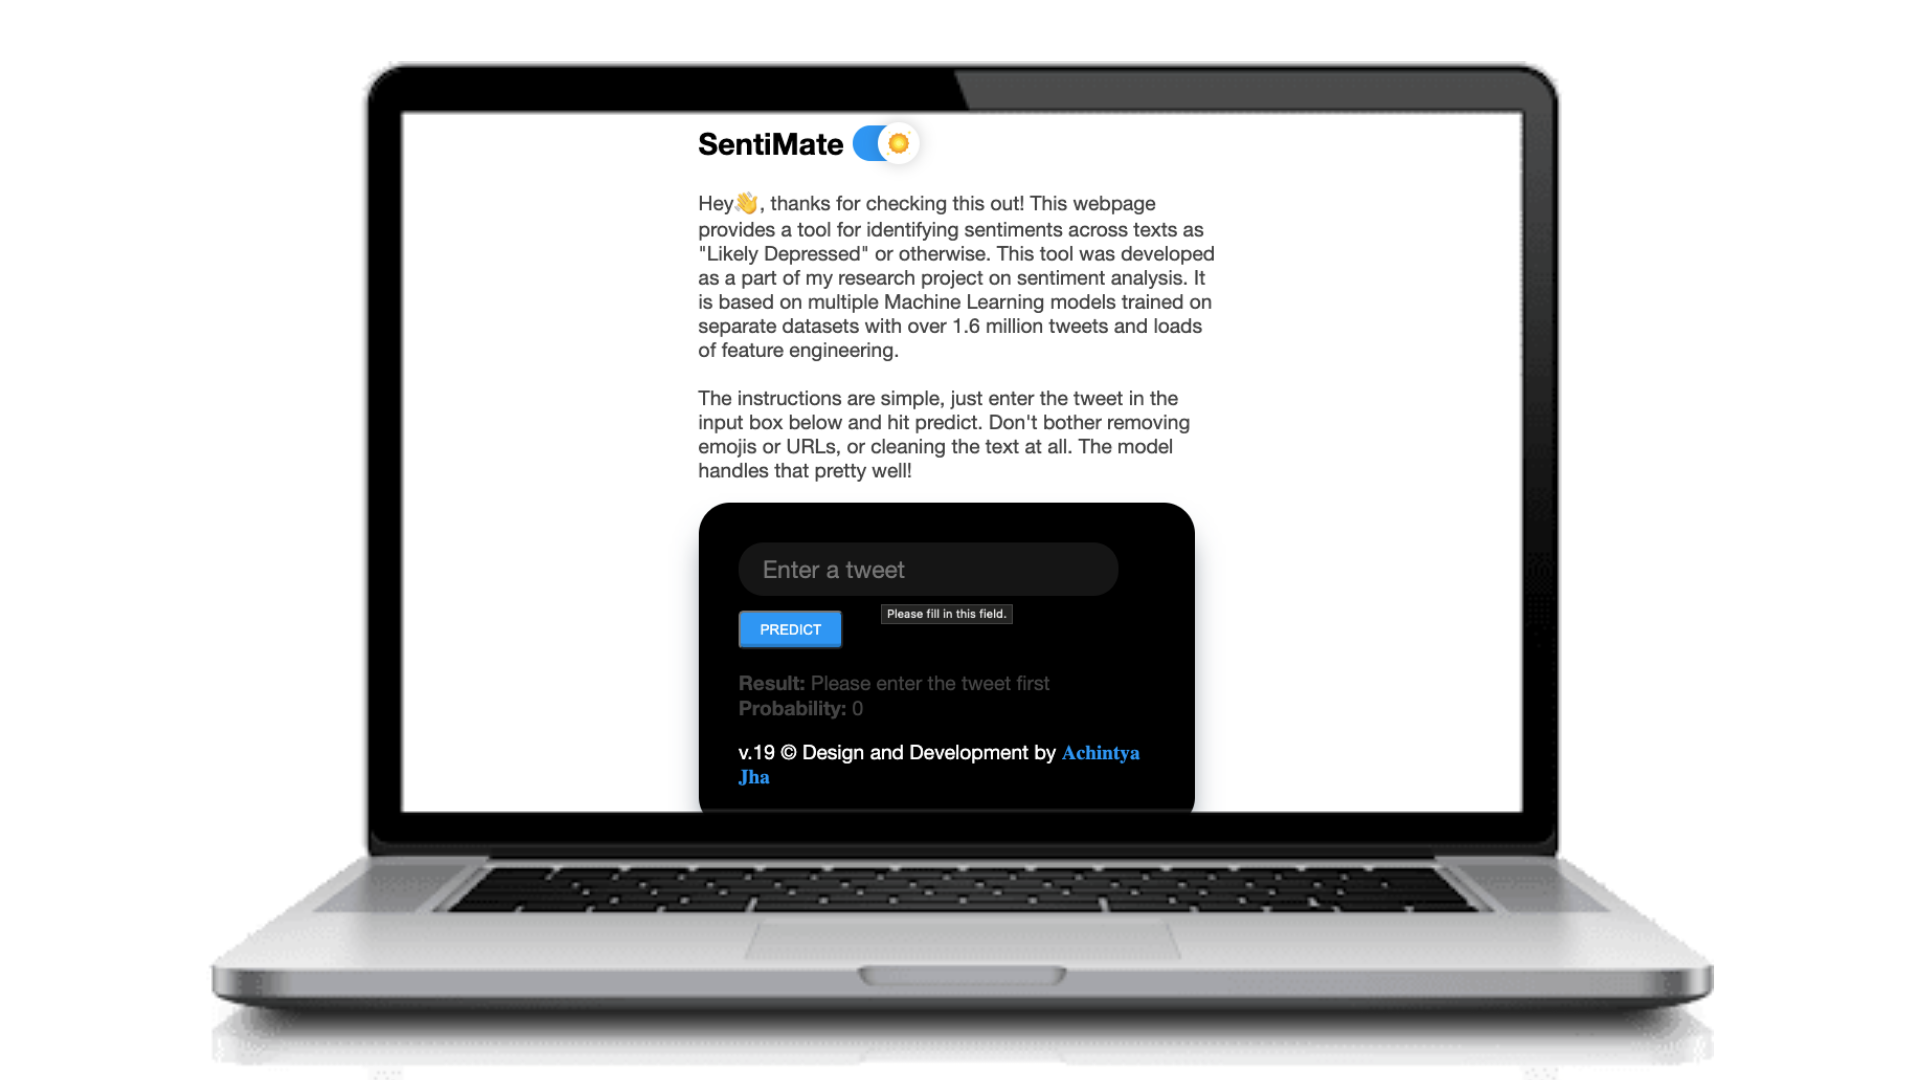
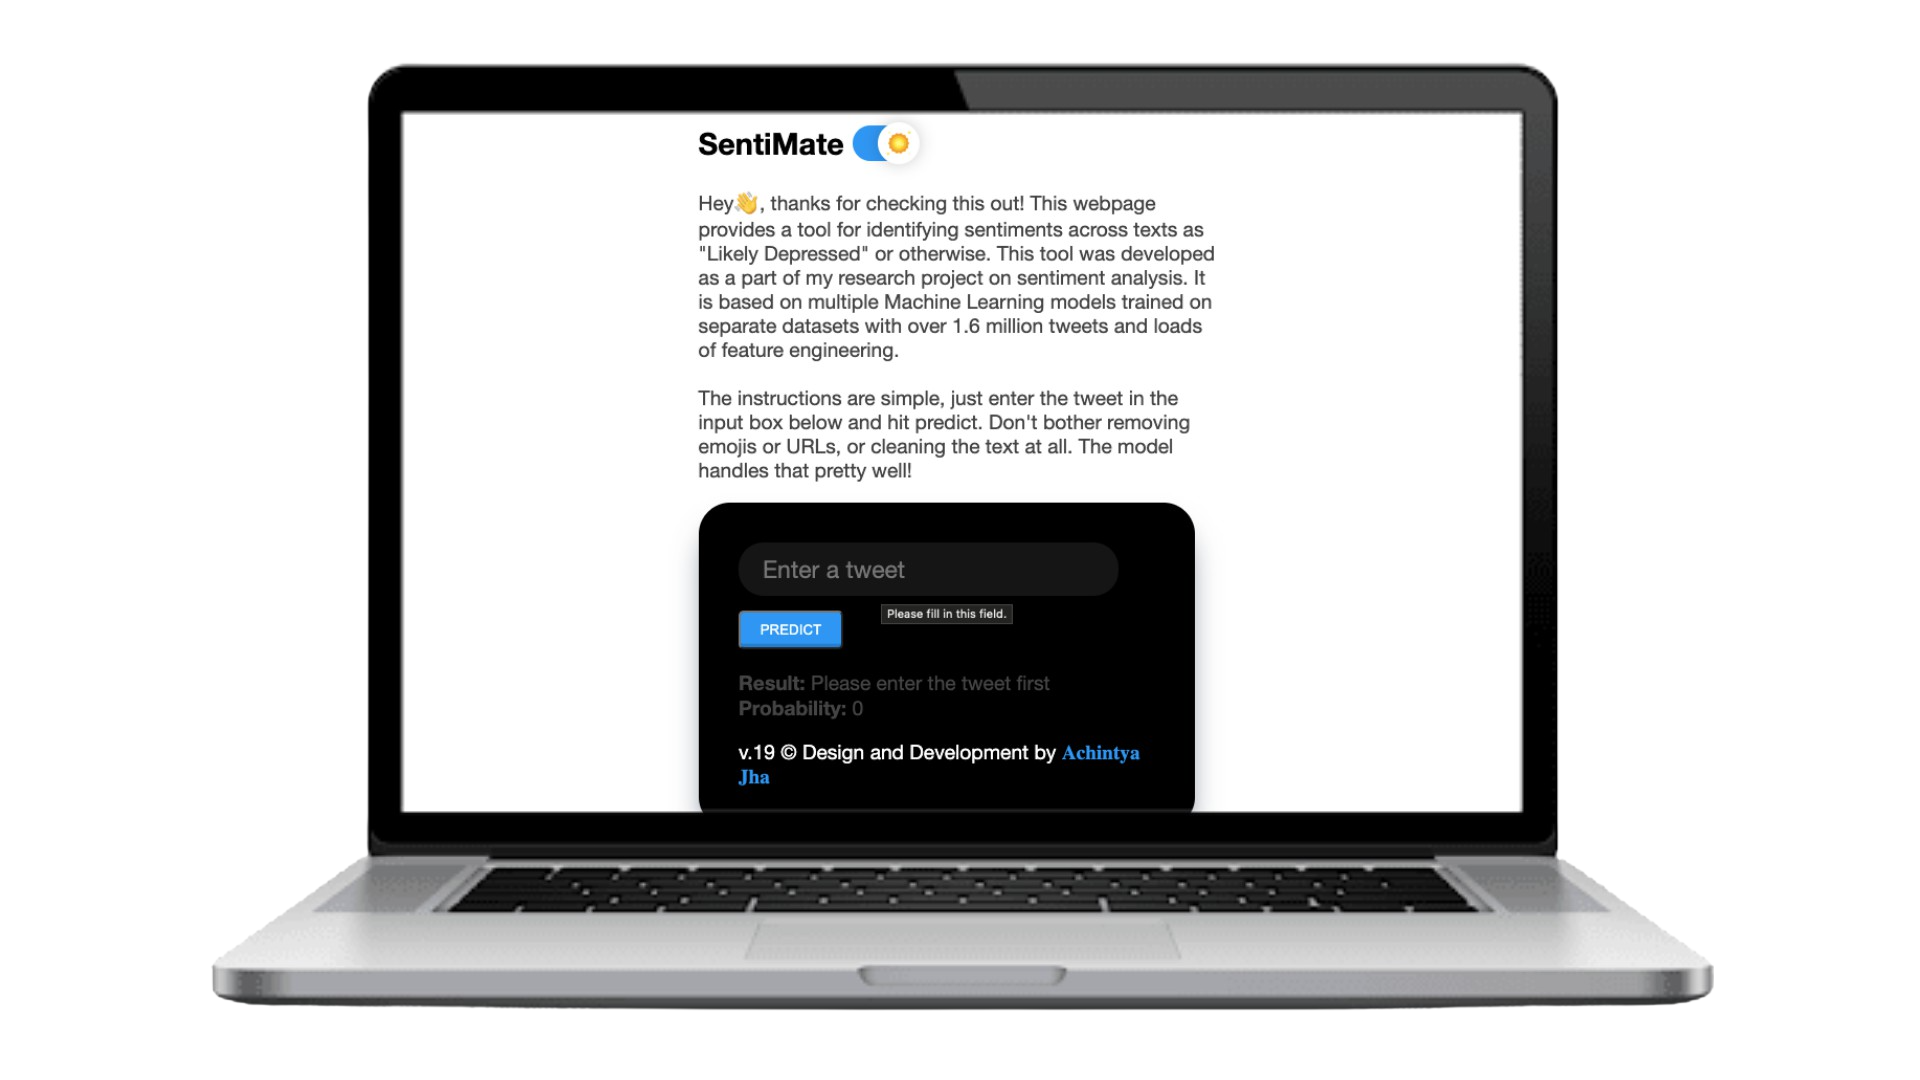
setup

diff --git a/new.html b/new.html
@@ -52,7 +52,7 @@ permalink: /new/
                         </div>
                     </div>
                     <div class="col-lg-6">
-                        <img src="{{ site.baseurl }}/images/laptop-app.png" alt="">
+                        <img style="    max-width: 100%; max-height: 100%;" src="{{ site.baseurl }}/images/laptop-app.png" alt="">
                     </div>
                 </div>
             </div>
